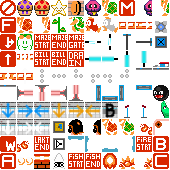
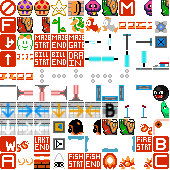
Coin animation replaced along with Red Koopa.

diff --git a/README.md b/README.md
@@ -3,7 +3,7 @@ Runs on LÖVE 11.2
 
 Mostly: MIT License
 
-Mushrooms, star, coinblock and plant graphics
+Mushrooms, star, coinblockanimation, coinblock and plant graphics
 Mario-like stuff by Kelvin Shadewing (http://kelvinshadewing.net)
 https://opengameart.org/content/mario-like-stuff
 License: CC-BY-SA 4.0
@@ -23,7 +23,7 @@ Pipes
 https://opengameart.org/content/16-bit-pipes
 License: CC-BY-SA 4.0
 
-Koopa
+Koopa and Red Koopa
 Modified from Monsterboy in Wonder World mockup assets by surt
 https://opengameart.org/content/monsterboy-in-wonder-world-mockup-assets
 License: CC-BY-SA 3.0
